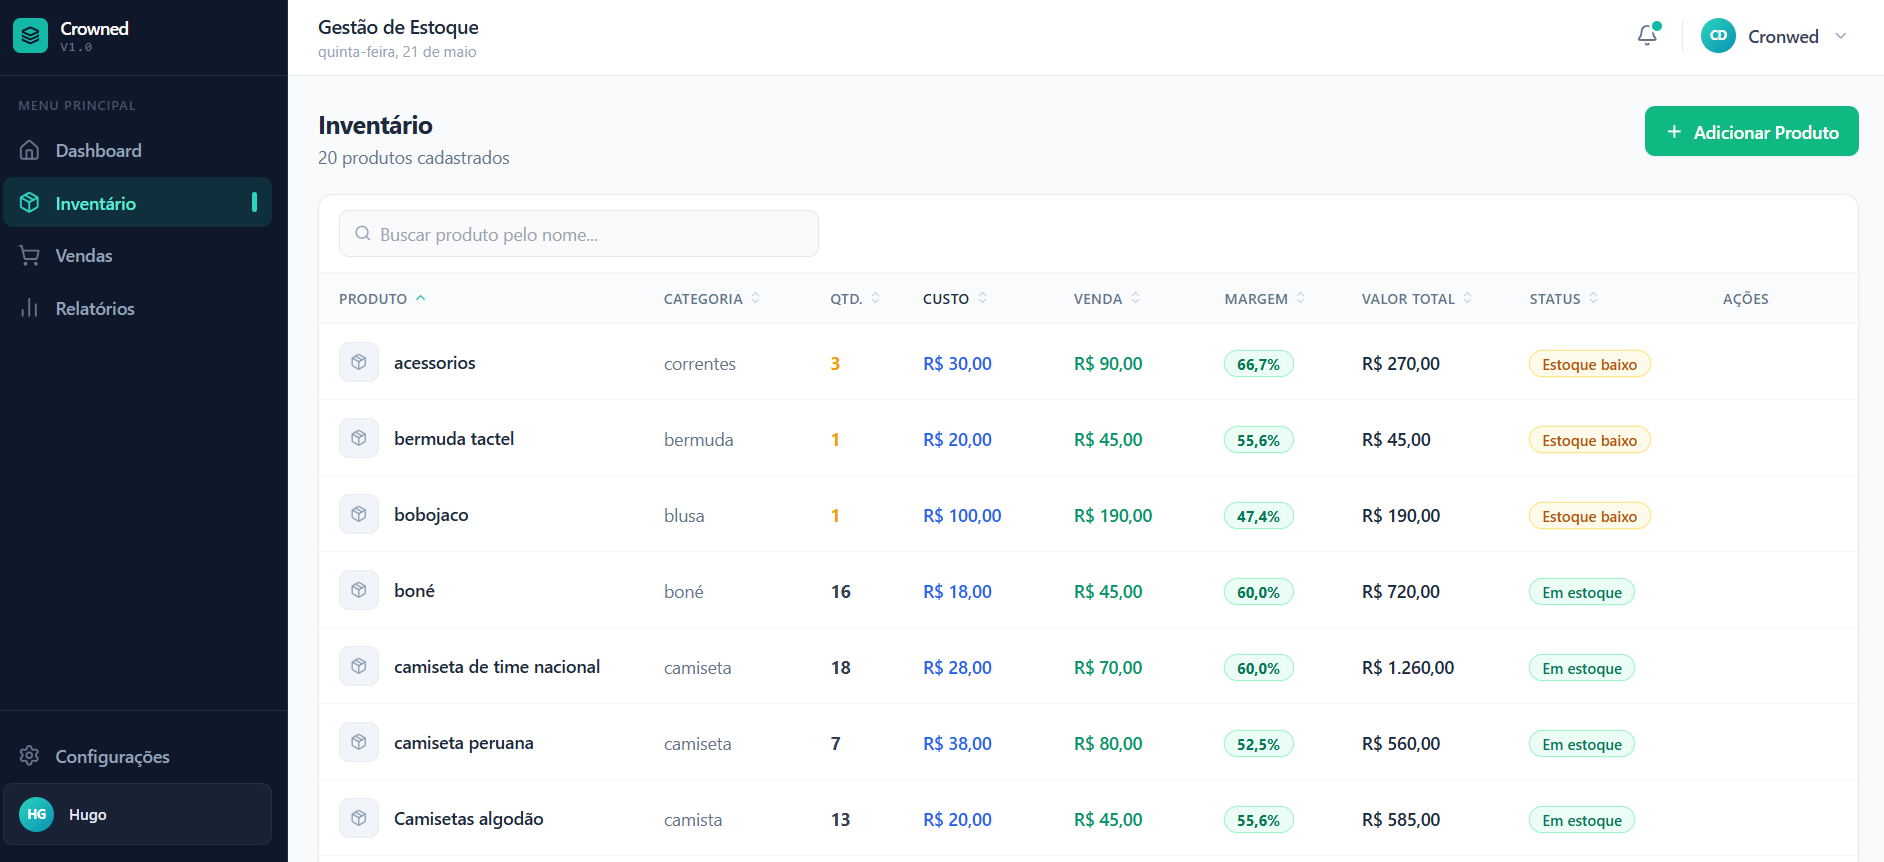
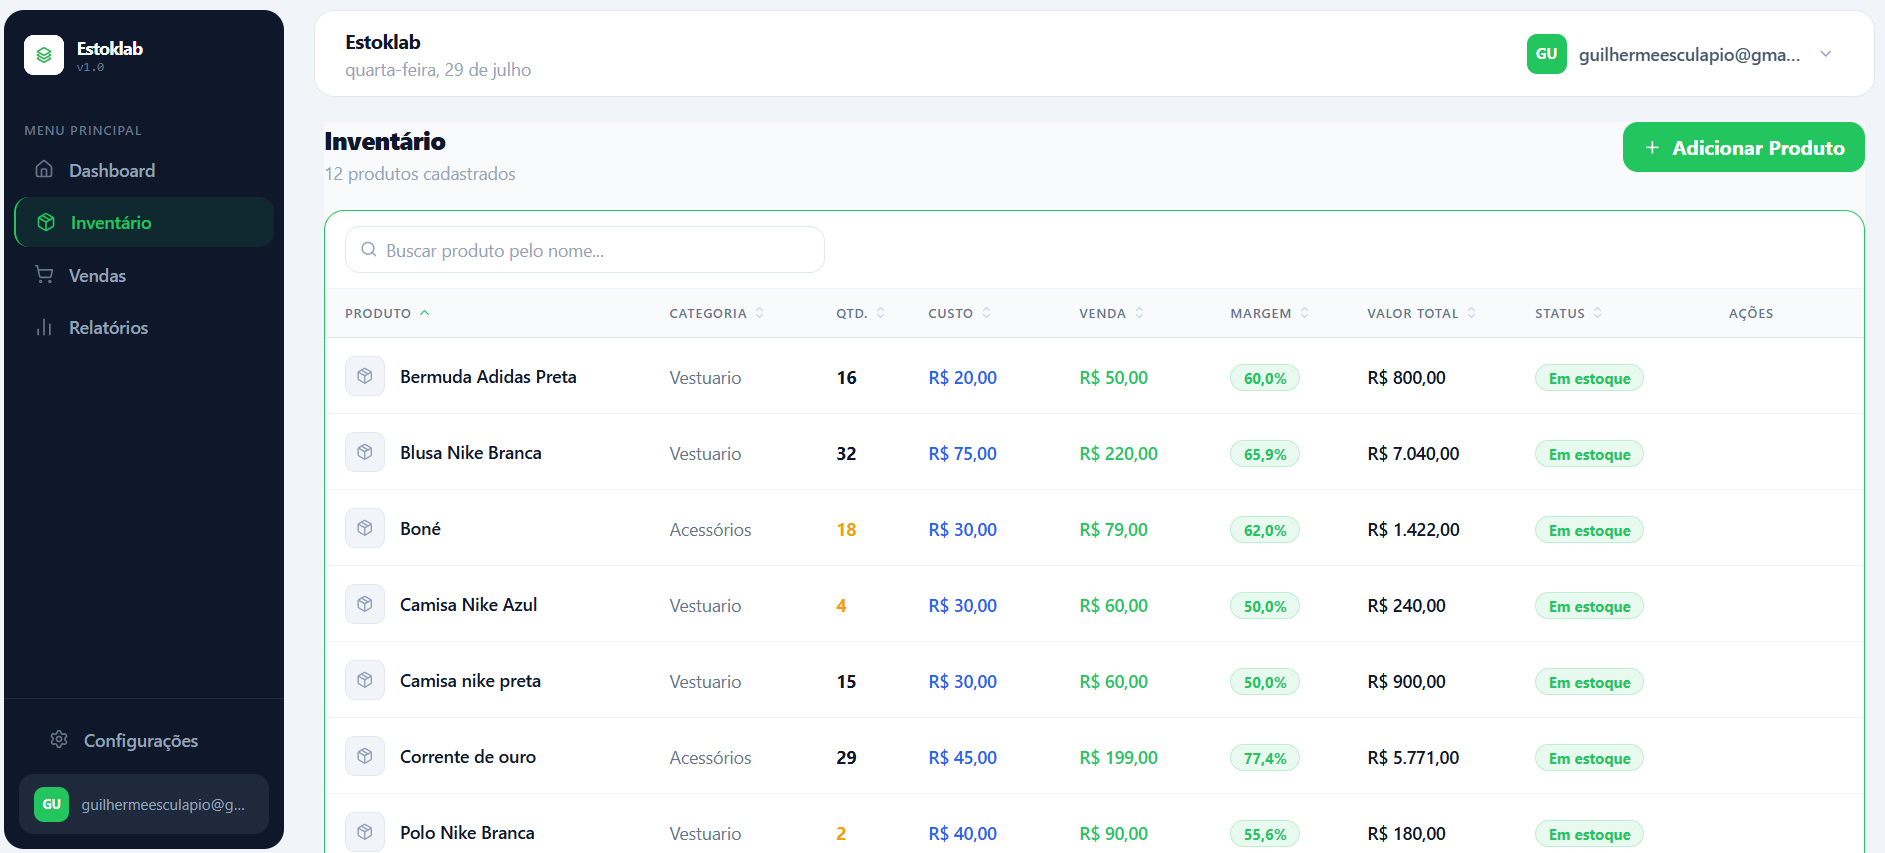
docs: update README with full documentation and new screenshots

diff --git a/README.md b/README.md
@@ -1,69 +1,160 @@
-Smart Inventory Dashboard 📦
+<div align="center">
 
-O Smart Inventory Dashboard é uma solução de gestão de estoque desenhada para eliminar ineficiências operacionais como quebras de estoque e perdas financeiras. Desenvolvido para oferecer visão estratégica de negócio, o sistema transforma dados brutos em decisões inteligentes, permitindo que lojistas identifiquem margens de lucro, capital imobilizado e produtos com performance crítica em tempo real.
+<img src="public/logo.jpg" alt="Estoklab Logo" width="80" />
 
-🚀 O Problema
-Muitos pequenos negócios operam no "achismo" ou em planilhas manuais propensas a erros. Este projeto centraliza a gestão para resolver:
+# Estoklab
 
-Falta de visibilidade: Incapacidade de prever faturamento real.
+**Inventory management system built to solve a real problem.**
 
-Perdas operacionais: Dificuldade em rastrear movimentações e histórico de produtos.
+[![Live Demo](https://img.shields.io/badge/Live%20Demo-Visit-22c55e?style=for-the-badge)](https://sistema-gestao-estoque.vercel.app/login)
+[![GitHub](https://img.shields.io/badge/GitHub-Repository-181717?style=for-the-badge&logo=github)](https://github.com/guiesculapio/sistema-gestao-estoque)
+[![React](https://img.shields.io/badge/React-18-61DAFB?style=for-the-badge&logo=react)](https://react.dev)
+[![Supabase](https://img.shields.io/badge/Supabase-Backend-3ECF8E?style=for-the-badge&logo=supabase)](https://supabase.com)
 
-Margens ocultas: Falta de análise sobre quais categorias trazem lucro versus quais consomem capital (Capital Preso).
+---
 
-🛠 Tecnologias
-O projeto foi construído com uma arquitetura focada em performance e escalabilidade:
+*Um amigo tinha uma loja física e controlava o estoque no papel. Vi o problema, quis resolver.*
 
-Frontend: React.js, Tailwind CSS (interface responsiva e limpa).
+*A friend had a physical store and managed inventory on paper. I saw the problem and decided to fix it.*
 
-Backend: Supabase (Backend-as-a-Service, com foco em segurança RLS e tempo real).
+</div>
 
-Deploy: Vercel (CI/CD contínuo).
+---
 
-✨ Funcionalidades Principais
-Dashboard Dinâmico: Visualização imediata de faturamento potencial, lucro previsto e alerta de itens críticos.
+## 📸 Screenshots
 
-Gestão de Inventário: Cadastro intuitivo com cálculo automático de margens de lucro entre custo e venda.
+<div align="center">
 
-Frente de Caixa (PDV): Interface otimizada para registro rápido de vendas com atualização em tempo real dos relatórios.
+**Dashboard**
+![Dashboard](src/assets/Dashboard.png)
 
-Relatórios de Performance: Análise financeira avançada, cruzando dados de custo vs. venda e identificando capital imobilizado.
+**Inventário**
+![Inventário](src/assets/Inventario.png)
 
-🧠 Desafios Técnicos
-O maior desafio deste projeto não foi apenas a interface, mas a implementação da lógica de negócio:
+</div>
 
-Garantir a integridade dos dados ao calcular margens de lucro e movimentações de estoque em tempo real.
+---
 
-Estruturar o banco de dados relacional para que o cálculo de "Capital Preso" e "ROI" fosse performático, evitando latência no frontend.
+## ✨ Features
 
-A separação de responsabilidades (Frontend vs. Backend) para garantir que a lógica de cálculo não ficasse exposta ou vulnerável.
+| Funcionalidade | Descrição |
+|---|---|
+| 📦 **Inventário** | CRUD completo com busca, ordenação e cálculo de margem em tempo real |
+| 🛒 **PDV (Ponto de Venda)** | Frente de caixa com leitor de código de barras e baixa automática no estoque |
+| 📊 **Relatórios** | Análise financeira com margem, lucro, ROI e capital parado |
+| 🎯 **Meta de Lucro** | Barra de progresso motivacional com período personalizável |
+| 📄 **Exportação PDF** | Relatórios de entrada e saída de mercadorias |
+| ⚠ **Alertas de Estoque** | Limiar configurável por produto ou global |
+| 🔐 **Multi-tenant** | Isolamento real de dados por usuário via RLS no PostgreSQL |
+| 👤 **Autenticação** | Cadastro público com confirmação de email via Supabase Auth |
 
-📸 Preview
-![Preview do Smart Inventory Dashboard](./src/assets/Inventario.png)
+---
 
-🛣 Roadmap (Próximos Passos)
-O projeto está em evolução para se tornar uma plataforma SaaS completa:
+## 🛠 Stack
 
-Autenticação: Implementação de login e perfis de acesso.
+- **Frontend:** React 18 + Vite + JavaScript
+- **Styling:** Tailwind CSS
+- **Backend:** Supabase (PostgreSQL + Auth + Storage)
+- **Charts:** Recharts
+- **PDF:** jsPDF + jsPDF-AutoTable
+- **Icons:** Lucide React
+- **Deploy:** Vercel
 
-Dashboard de Usuário: Painéis personalizados por nível de acesso.
+---
 
-Expansão SaaS: Funcionalidades multi-tenant para múltiplos clientes.
+## 🏗 Architecture
 
-💡 Como rodar localmente
-Clone este repositório:
+O sistema opera sob uma arquitetura **multi-tenant isolada no banco de dados**:
 
-Bash
-git clone [https://github.com/guiesculapio/sistema-gestao-estoque.git]  
-Instale as dependências:
+- **Autenticação** gerenciada pelo `auth.users` do Supabase
+- **Isolamento via RLS:** toda tabela possui uma coluna `user_id` vinculada ao `auth.uid()` — um usuário nunca acessa dados de outro
+- **Fonte única de verdade:** `InventoryContext` centraliza o estado global, métricas calculadas e operações de escrita
+- **Camada de dados:** todas as queries do Supabase passam por `src/lib/supabaseClient.js` — nenhuma página faz query direta
 
-Bash
+**Estrutura de pastas:**
+```
+src/
+├── components/       # Componentes reutilizáveis
+│   └── layout/       # Shell da aplicação (Sidebar, Header, Modais)
+├── context/          # Estado global (Auth + Inventory)
+├── hooks/            # Hooks de dados (categorias, meta, preferências)
+├── lib/              # Supabase client, PDF, utilitários de estoque
+├── pages/            # Páginas da aplicação
+└── utils/            # Funções utilitárias compartilhadas (format.js)
+```
+
+---
+
+## 🔑 Key Technical Decisions
+
+**Por que RLS no banco em vez de validação só no frontend?**
+Validação client-side é UX — RLS é segurança real. Com múltiplos usuários no mesmo banco, a única garantia verdadeira de isolamento é a policy no PostgreSQL.
+
+**Por que Supabase em vez de backend próprio?**
+Era necessário atender uma necessidade real rapidamente, com possibilidade de escala futura. Supabase entrega Auth, PostgreSQL, RLS e API REST sem servidor próprio — ideal para um MVP que precisa de segurança de produção desde o início.
+
+**Por que o schema SQL está versionado no repositório?**
+`supabase_schema.sql` documenta as tabelas, constraints e políticas de RLS. Qualquer dev pode entender as decisões de banco sem precisar acessar o painel do Supabase.
+
+---
+
+## 🚀 Getting Started
+
+### Prerequisites
+- Node.js 18+
+- Conta no [Supabase](https://supabase.com)
+
+### Installation
+
+```bash
+# Clone o repositório
+git clone https://github.com/guiesculapio/sistema-gestao-estoque.git
+cd sistema-gestao-estoque
+
+# Instale as dependências
 npm install
-Configure o arquivo .env com suas credenciais do Supabase.
 
-Execute o projeto:
+# Configure as variáveis de ambiente
+# Crie manualmente o arquivo .env.local com as variáveis abaixo
 
-Bash
+
+# Execute as migrations
+# Cole o conteúdo de supabase_schema.sql no SQL Editor do Supabase
+
+# Inicie o servidor de desenvolvimento
 npm run dev
+```
 
-Desenvolvido por Guilherme Esculapio
+### Environment Variables
+
+```env
+VITE_SUPABASE_URL=your_supabase_project_url
+VITE_SUPABASE_ANON_KEY=your_supabase_anon_key
+```
+
+---
+
+## 🗺 Roadmap (v2)
+
+- [ ] Notificações de estoque crítico por email (Supabase Edge Functions)
+- [ ] Histórico de preços por produto
+- [ ] Relatório de lucratividade por período com gráfico de tendência
+- [ ] Campo de fornecedor nos produtos
+- [ ] Testes automatizados (Vitest + Testing Library)
+- [ ] PWA — instalável no celular do lojista
+
+---
+
+## 👨💻 About
+
+Desenvolvido por **Guilherme Esculápio** — estudante de desenvolvimento web com foco em frontend e interesse crescente em backend e segurança.
+
+Este é meu primeiro projeto real — não um exercício, mas algo que alguém usa de fato. Ainda tenho muito a aprender, e é exatamente isso que me motiva a continuar.
+
+[![LinkedIn](https://img.shields.io/badge/LinkedIn-Connect-0A66C2?style=flat-square&logo=linkedin)](https://www.linkedin.com/in/guilherme-e/)
+
+---
+
+<div align="center">
+<sub>Estoklab v1.0 · Built with ❤ to help a friend</sub>
+</div>
